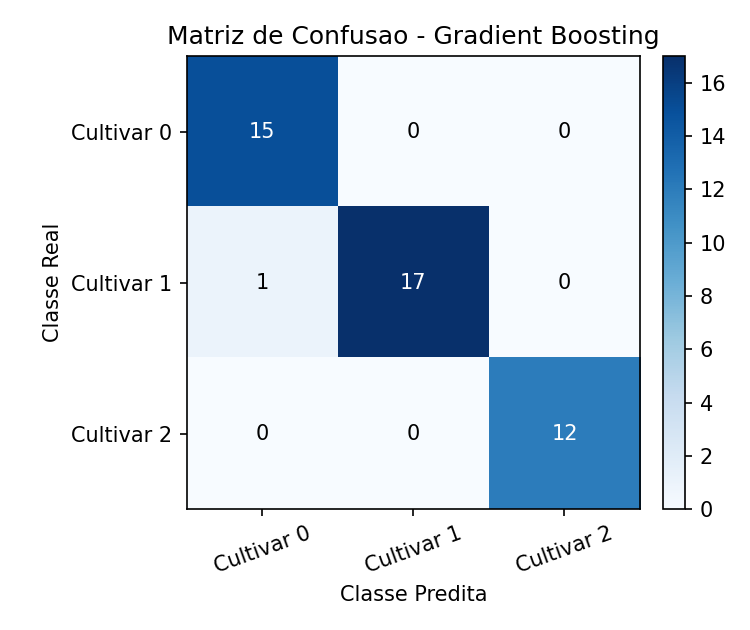
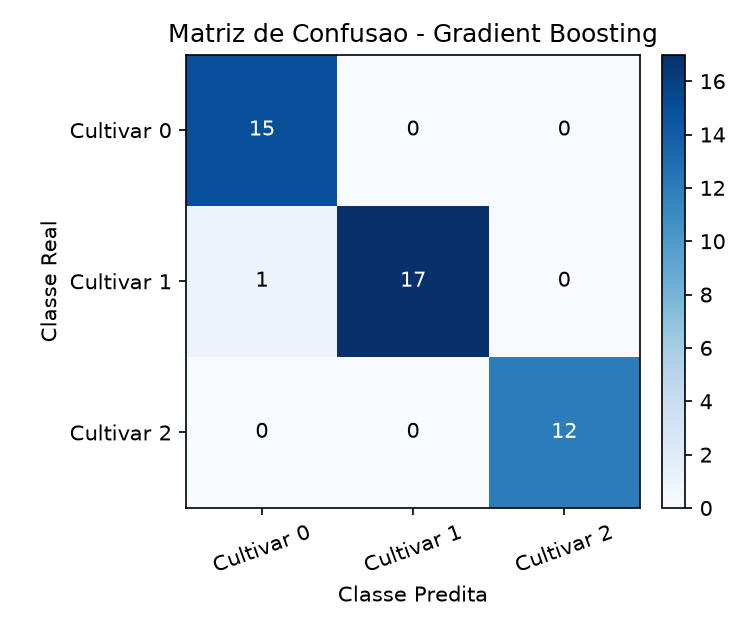
fix: use repeated cross-validation for both wine classifiers
The logistic regression was scored only on a 45-sample split (100%), while
gradient boosting also had cross-validation, so the two were compared under
different protocols. Evaluate both with 5x10 repeated stratified k-fold on
identical partitions, with the scaler inside a Pipeline, and report a paired
fold-by-fold difference. The comparison figure now shows the CV scores.

diff --git a/portfolio-4-machine-learning/src/projeto_01_supervisionado.py b/portfolio-4-machine-learning/src/projeto_01_supervisionado.py
@@ -25,7 +25,8 @@ from time import perf_counter
 import numpy as np
 import matplotlib.pyplot as plt
 from sklearn.datasets import load_wine
-from sklearn.model_selection import train_test_split, StratifiedKFold, cross_val_score
+from sklearn.model_selection import train_test_split, RepeatedStratifiedKFold, cross_validate
+from sklearn.pipeline import make_pipeline
 from sklearn.preprocessing import StandardScaler
 from sklearn.linear_model import LogisticRegression
 from sklearn.ensemble import GradientBoostingClassifier
@@ -59,10 +60,16 @@ class ClassificationResult:
 
 @dataclass
 class CrossValidationResult:
-    """DTO com o resultado da validacao cruzada estratificada de um modelo."""
+    """DTO com o resultado da validacao cruzada estratificada repetida.
+
+    As pontuacoes de folds de repeticoes diferentes reutilizam as mesmas
+    amostras, entao nao sao independentes: o desvio e descritivo da
+    variabilidade entre folds, nao um erro-padrao da media.
+    """
 
     model_name: str
     fold_scores: np.ndarray = field(repr=False)
+    fold_f1: np.ndarray = field(repr=False)
 
     @property
     def mean(self) -> float:
@@ -70,7 +77,15 @@ class CrossValidationResult:
 
     @property
     def std(self) -> float:
-        return float(np.std(self.fold_scores))
+        return float(np.std(self.fold_scores, ddof=1))
+
+    @property
+    def f1_mean(self) -> float:
+        return float(np.mean(self.fold_f1))
+
+    @property
+    def f1_std(self) -> float:
+        return float(np.std(self.fold_f1, ddof=1))
 
 
 class WineCultivarClassifier:
@@ -163,10 +178,15 @@ class BaselineLogisticClassifier:
 
 
 def run_cross_validation(estimator, x: np.ndarray, y: np.ndarray, model_name: str,
-                          n_splits: int = 5) -> CrossValidationResult:
-    cv = StratifiedKFold(n_splits=n_splits, shuffle=True, random_state=RANDOM_STATE)
-    scores = cross_val_score(estimator, x, y, cv=cv, scoring="accuracy")
-    return CrossValidationResult(model_name=model_name, fold_scores=scores)
+                          n_splits: int = 5, n_repeats: int = 10) -> CrossValidationResult:
+    """Validacao cruzada estratificada repetida. Os folds dependem so da
+    semente, entao dois modelos avaliados aqui veem exatamente as mesmas
+    particoes (comparacao pareada). O estimador deve ser um Pipeline quando
+    ha pre-processamento, para o scaler ser ajustado so no treino de cada fold."""
+    cv = RepeatedStratifiedKFold(n_splits=n_splits, n_repeats=n_repeats, random_state=RANDOM_STATE)
+    scores = cross_validate(estimator, x, y, cv=cv, scoring=("accuracy", "f1_macro"))
+    return CrossValidationResult(model_name=model_name, fold_scores=scores["test_accuracy"],
+                                 fold_f1=scores["test_f1_macro"])
 
 
 def plot_confusion_matrix(result: ClassificationResult, class_names: list[str], filename: str) -> None:
@@ -200,20 +220,20 @@ def plot_feature_importance(importances: np.ndarray, feature_names: list[str], f
     plt.close(fig)
 
 
-def plot_model_comparison(results: list[ClassificationResult], filename: str) -> None:
+def plot_model_comparison(results: list[CrossValidationResult], filename: str) -> None:
     fig, ax = plt.subplots(figsize=(6, 4.2))
     names = [r.model_name for r in results]
-    acc = [r.accuracy for r in results]
-    f1 = [r.f1_macro for r in results]
     x = np.arange(len(names))
     width = 0.35
-    ax.bar(x - width / 2, acc, width, label="Acuracia", color="#7B2D26")
-    ax.bar(x + width / 2, f1, width, label="F1-macro", color="#B08968")
+    ax.bar(x - width / 2, [r.mean for r in results], width, yerr=[r.std for r in results],
+           capsize=4, label="Acuracia", color="#7B2D26")
+    ax.bar(x + width / 2, [r.f1_mean for r in results], width, yerr=[r.f1_std for r in results],
+           capsize=4, label="F1-macro", color="#B08968")
     ax.set_xticks(x)
     ax.set_xticklabels(names)
     ax.set_ylim(0.8, 1.02)
-    ax.set_ylabel("Score")
-    ax.set_title("Comparativo entre Gradient Boosting e Regressao Logistica")
+    ax.set_ylabel("Score (media +- desvio entre folds)")
+    ax.set_title("Validacao cruzada 5x10 folds")
     ax.legend()
     fig.tight_layout()
     fig.savefig(FIGS_DIR / filename, dpi=150)
@@ -236,11 +256,15 @@ def main() -> None:
     baseline = BaselineLogisticClassifier().fit(x_train, y_train)
     baseline_result = baseline.evaluate(x_test, y_test, "Regressao Logistica")
 
-    gb_cv = run_cross_validation(GradientBoostingClassifier(
+    # Pipelines: o scaler e ajustado so no treino de cada fold (sem vazamento).
+    gb_cv = run_cross_validation(make_pipeline(StandardScaler(), GradientBoostingClassifier(
         n_estimators=150, learning_rate=0.08, max_depth=2, random_state=RANDOM_STATE
-    ), x, y, "Gradient Boosting")
+    )), x, y, "Gradient Boosting")
+    lr_cv = run_cross_validation(make_pipeline(
+        StandardScaler(), LogisticRegression(max_iter=2000, random_state=RANDOM_STATE)
+    ), x, y, "Regressao Logistica")
 
-    print("=== Resultado no conjunto de teste ===")
+    print(f"=== Split unico de teste ({len(y_test)} amostras; 1 erro = {100/len(y_test):.1f} pontos) ===")
     for r in (gb_result, baseline_result):
         print(f"{r.model_name}: acc={r.accuracy:.4f} f1_macro={r.f1_macro:.4f} "
               f"roc_auc_ovr={r.roc_auc_ovr:.4f} tempo={r.training_time_ms:.3f}ms")
@@ -248,13 +272,17 @@ def main() -> None:
     print("\n=== Relatorio de classificacao (Gradient Boosting) ===")
     print(gb_result.report)
 
-    print("=== Validacao cruzada estratificada (5 folds) ===")
-    print(f"Gradient Boosting: media={gb_cv.mean:.4f} desvio={gb_cv.std:.4f} "
-          f"folds={np.round(gb_cv.fold_scores, 4)}")
+    n_folds = len(gb_cv.fold_scores)
+    print(f"=== Validacao cruzada estratificada repetida (5x10 = {n_folds} folds, mesmas particoes) ===")
+    for cv in (gb_cv, lr_cv):
+        print(f"{cv.model_name}: acc={cv.mean:.4f} +- {cv.std:.4f} | f1_macro={cv.f1_mean:.4f} +- {cv.f1_std:.4f}")
+    diff = lr_cv.fold_scores - gb_cv.fold_scores
+    print(f"Diferenca pareada (LR - GB) por fold: media={diff.mean():+.4f} "
+          f"| LR melhor em {(diff > 0).sum()}, empate em {(diff == 0).sum()}, GB melhor em {(diff < 0).sum()} de {n_folds}")
 
     plot_confusion_matrix(gb_result, class_names, "p1_confusion_matrix.png")
     plot_feature_importance(gb_classifier.feature_importances(), feature_names, "p1_feature_importance.png")
-    plot_model_comparison([gb_result, baseline_result], "p1_model_comparison.png")
+    plot_model_comparison([gb_cv, lr_cv], "p1_model_comparison.png")
 
     print("\nFiguras salvas em:", FIGS_DIR)
 
